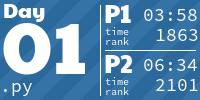
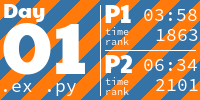
Solve 2022 day 01 in elixir

diff --git a/2022/01.py b/2022/01.py
@@ -36,6 +36,3 @@ def part2():
 
 result2 = part2()
 print("Part 2 solution: %d" % result2)
-
-
-

diff --git a/README.md b/README.md
@@ -7,7 +7,7 @@
 <a href="2023/01.ex">
   <img src=".aoc_tiles/tiles/2023/01.png" width="161px">
 </a>
-<a href="2023/02.py">
+<a href="2023/02.ex">
   <img src=".aoc_tiles/tiles/2023/02.png" width="161px">
 </a>
 <a href="2023/03.py">
@@ -397,7 +397,7 @@
 <a href="2018/day_01.py">
   <img src=".aoc_tiles/tiles/2018/01.png" width="161px">
 </a>
-<a href="2018/day_02.py">
+<a href="2018/02.ex">
   <img src=".aoc_tiles/tiles/2018/02.png" width="161px">
 </a>
 <a href="2018/day_03.py">
